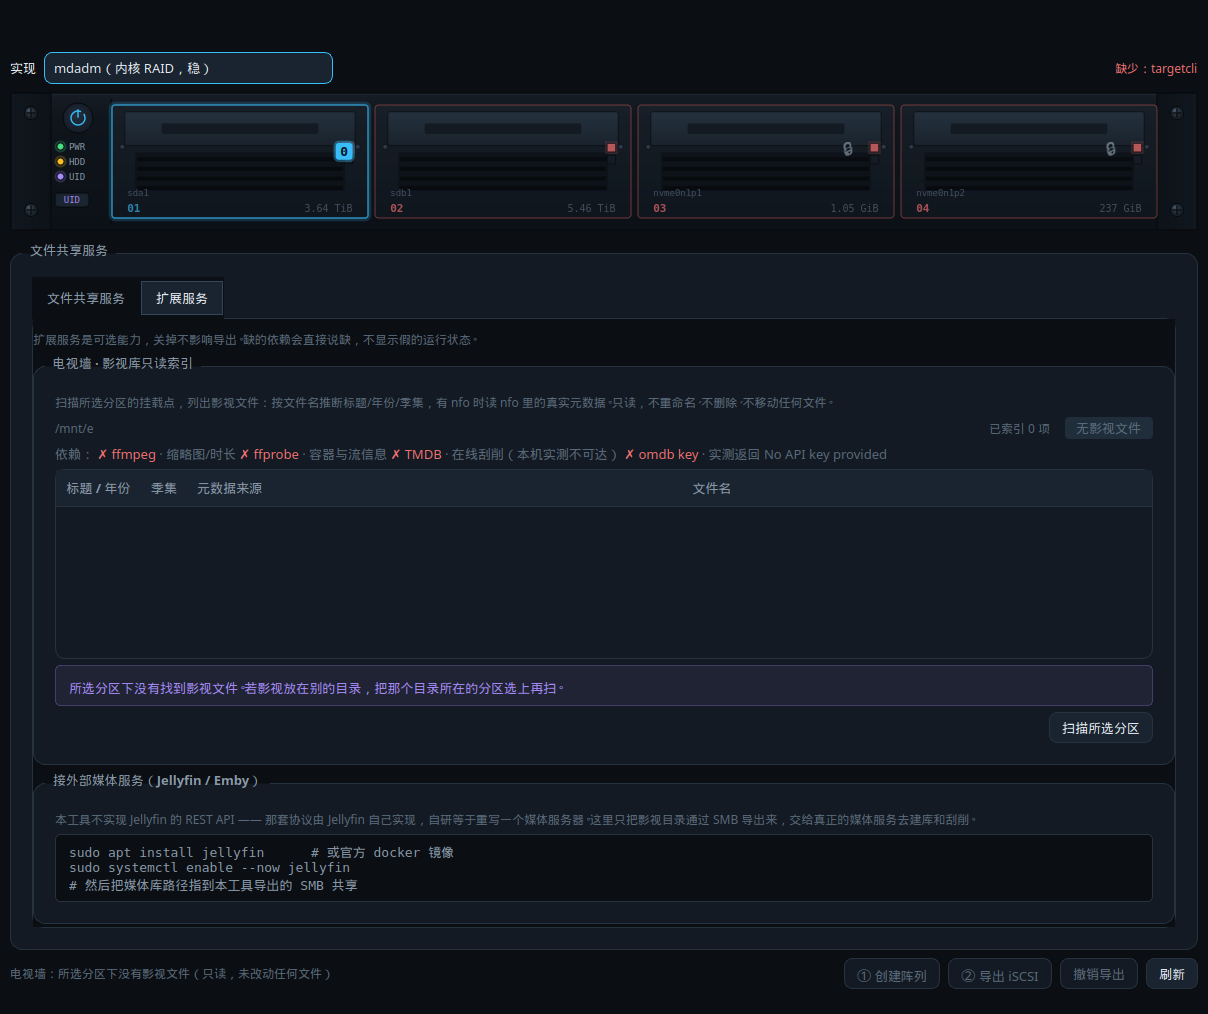
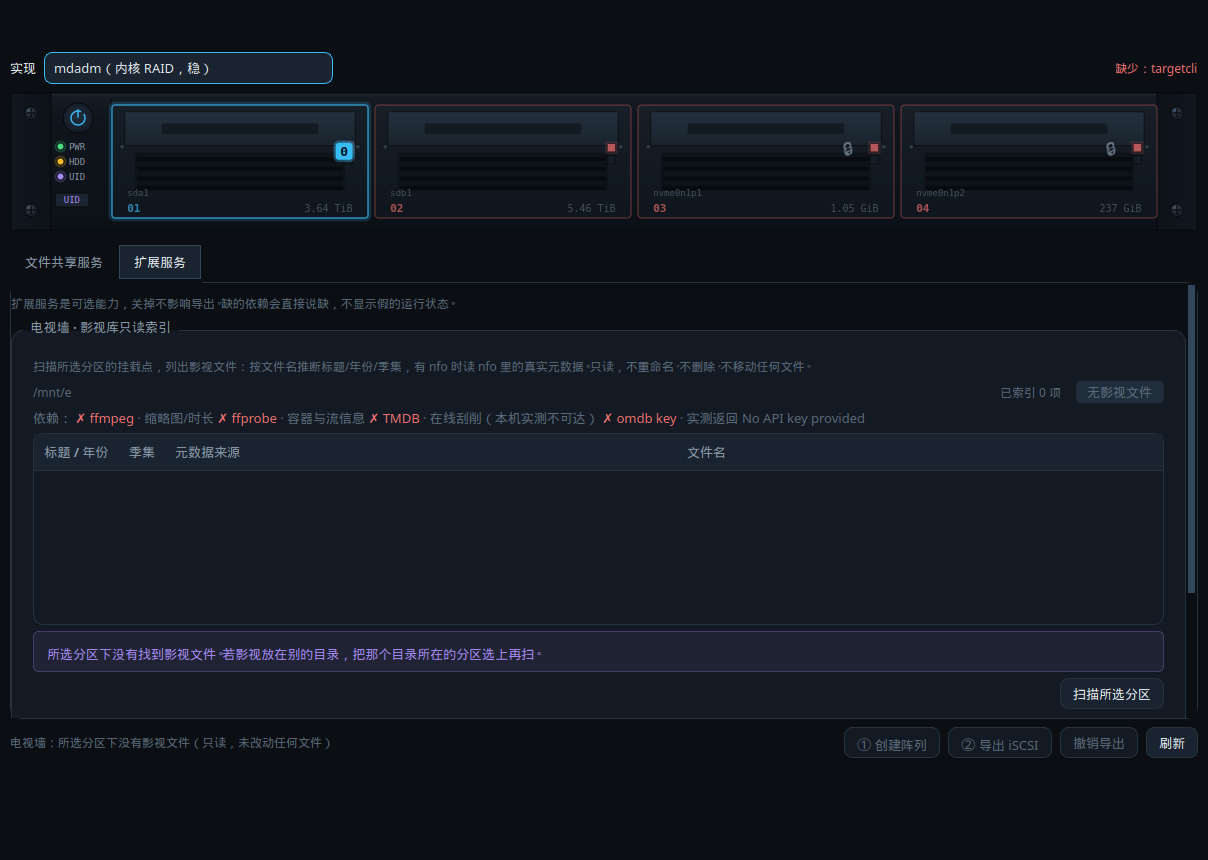
feat(nas): 去掉标签页外层的分组框，并收掉由此暴露的高度问题
按「标签页外面不要再套一个框」改。外层 QGroupBox 的标题和第一个标签
同名，同一个词在相邻两级各写一遍是噪声不是信息。

去掉框之后露出一段空白，查下来跟框无关，是两个真实的高度问题：

  1. m_modeHint 与两个单选钮同在一行，行内没有任何竖直约束，布局把
     富余高度全摊给它 —— 一行 17px 的提示实测被撑到 297px。
     m_iscsiBox / m_smbBox 同样只是显隐容器，却在吸收富余（实测 570
     而内容只要 221）。三个控件都补上 Fixed 策略，现在都停在自己的
     sizeHint 上。

  2. 标签页必须同高，这是 Qt 的固定行为。扩展页要 700px、导出页只要
     258px，差出来的就是导出页下面那段空白 —— 这个空白在加框之前就
     存在，只是被框的边线盖住了。给扩展页套滚动区，让它「窗口给多高
     用多高」，标签页高度不再被最高那页顶起来：sizeHint 从 746 降到
     478，页面不再被撑到 991。

中途我先试了 setSizePolicy(Fixed)，没用 —— maximumHeight 默认是
QWIDGETSIZE_MAX，光设策略挡不住布局拉伸。这个坑 nasboardwidget.cpp
里早就写着结论，我自己又踩了一遍。

又试过 clampTabsToContent() 把 maximumHeight 收到 sizeHint，撤掉了：
标签页取的是最高那页的需求，强行收口会把底部按钮挤出窗口，比空白严重
得多。实测按钮都在窗口内之后确认不需要收口，改成让扩展页自己变矮。

没有给导出页硬塞内容填空白 —— 放不出真实信息时，留白比编一块面板好。
需要的话可以补成员分区的容量/挂载点小结，那是真实数据。

diff --git a/naspage.cpp b/naspage.cpp
@@ -29,6 +29,8 @@
 #include <QRadioButton>
 #include <QStandardPaths>
 #include <QApplication>
+#include <QScrollArea>
+#include <QFrame>
 #include <QTabWidget>
 #include <QTableWidget>
 #include <QHeaderView>
@@ -94,17 +96,21 @@ NasPage::NasPage(QWidget *parent)
     connect(m_board, &NasBoardWidget::slotClicked, this, &NasPage::onSlotClicked);
     connect(m_board, &NasBoardWidget::slotRejected, this, &NasPage::onSlotRejected);
 
-    // ── 参数区 ──
-    auto *cfg = new QGroupBox("文件共享服务");
-    // 参数框按内容高度，不吸收页面多余空间。否则它会吃掉画板下方的
-    // 全部富余高度，把画板顶到中间，看起来就是机箱上方一大片空白。
-    cfg->setSizePolicy(QSizePolicy::Preferred, QSizePolicy::Fixed);
-    auto *cfgLay = new QVBoxLayout(cfg);
-
-    // ── 标签页：导出服务 / 扩展服务 ──
+    // ── 参数区：导出服务 / 扩展服务 两个标签页 ──
     // 刻意分成两页而不是堆在一起：扩展服务（影视索引）失败或还没装
     // 依赖时，不该连带让人以为导出也用不了。两页失败域隔离。
+    //
+    // 标签页自己就是分组，不再另套 QGroupBox：外面那层框的标题和第一个
+    // 标签同名，同一个词在相邻两级重复一次是噪声而不是信息。
     m_tabs = new QTabWidget();
+    // 按内容高度，不吸收页面多余空间。否则它会吃掉画板下方的全部富余
+    // 高度，把画板顶到中间，看起来就是机箱上方一大片空白。
+    //
+    // 光设 Fixed 策略不够：maximumHeight 默认是 QWIDGETSIZE_MAX，布局有
+    // 富余时照样把标签页拉高（实测拉到 651，内容只要 253），多出来的高度
+    // 会被摊给页内控件，一行提示文字能被撑到几百像素。画板那边踩过同一个
+    // 坑，结论一样 —— 得同时把 maximumHeight 收到 sizeHint。
+    m_tabs->setSizePolicy(QSizePolicy::Preferred, QSizePolicy::Fixed);
     m_svcTab = new QWidget();
     auto *outer = new QVBoxLayout(m_svcTab);
     outer->setContentsMargins(0, 8, 0, 0);
@@ -122,12 +128,19 @@ NasPage::NasPage(QWidget *parent)
     modeRow->addWidget(m_modeIscsi);
     modeRow->addWidget(m_modeSmb);
     m_modeHint = new QLabel();
+    // 这一行只有提示文字，不给约束的话布局会把富余竖直高度摊给它，
+    // 一行 17px 的提示实测被撑到 297px，在带边框的标签页里就是一片空白。
+    m_modeHint->setSizePolicy(QSizePolicy::Expanding, QSizePolicy::Fixed);
+    m_modeHint->setMaximumHeight(m_modeHint->sizeHint().height() + 6);
     m_modeHint->setProperty("role", "mute");
     modeRow->addWidget(m_modeHint, 1);
     outer->addLayout(modeRow);
 
     // iSCSI 那套行整体装进一个容器，好和 SMB 那套互斥显隐。
     m_iscsiBox = new QWidget();
+    // 只是给一组控件做显隐的容器，不该吸收页面富余高度；
+    // 不设 Fixed 的话它会被拉到内容高度的两倍以上。
+    m_iscsiBox->setSizePolicy(QSizePolicy::Preferred, QSizePolicy::Fixed);
     auto *form = new QFormLayout(m_iscsiBox);
     form->setContentsMargins(0, 0, 0, 0);
     m_volName = new QLineEdit();
@@ -168,6 +181,9 @@ NasPage::NasPage(QWidget *parent)
 
     // ── SMB 参数（默认隐藏，恰好 1 个分区时才显示）──
     m_smbBox = new QWidget();
+    // 只是给一组控件做显隐的容器，不该吸收页面富余高度；
+    // 不设 Fixed 的话它会被拉到内容高度的两倍以上。
+    m_smbBox->setSizePolicy(QSizePolicy::Preferred, QSizePolicy::Fixed);
     auto *sform = new QFormLayout(m_smbBox);
     sform->setContentsMargins(0, 0, 0, 0);
 
@@ -206,8 +222,12 @@ NasPage::NasPage(QWidget *parent)
 
     m_tabs->addTab(m_svcTab, "文件共享服务");
     m_tabs->addTab(buildExtensionsTab(), "扩展服务");
-    cfgLay->addWidget(m_tabs);
-    layout->addWidget(cfg);
+    // 收口高度：maximumHeight 默认是 QWIDGETSIZE_MAX，光设 Fixed 策略挡不住
+    // 布局拉伸（实测标签页被拉到 651 而内容只要 253，多出来的高度摊给页内
+    // 控件，一行提示文字被撑成几百像素）。画板那边踩过同一个坑。
+    //
+    // 不设高度上限：标签页取最宽那页的高度（扩展服务页比导出页高），
+    layout->addWidget(m_tabs);
 
     // ── 按钮行 ──
     auto *btnRow = new QHBoxLayout();
@@ -470,6 +490,7 @@ void NasPage::syncExportMode(int memberCount)
     }
     refreshSmbWarning();
     m_lastMemberCount = memberCount;
+
 }
 
 // SMB 的红字警告。刻意「不过度报警」：正常配置只说清授予了什么权限，
@@ -836,8 +857,11 @@ QWidget *NasPage::buildExtensionsTab()
     m_tvTable->verticalHeader()->setVisible(false);
     m_tvTable->setEditTriggers(QAbstractItemView::NoEditTriggers);
     m_tvTable->setSelectionBehavior(QAbstractItemView::SelectRows);
-    m_tvTable->setMaximumHeight(190);
-    tvv->addWidget(m_tvTable);
+    // 不设固定高度：给 stretch 让它吸收富余空间，这样扩展页的整体高度
+    // 会随窗口收缩，导出页那边同高的空白也就跟着变小。写死 190 会让
+    // 扩展页始终占 700px，标签页同高后导出页只剩一片空白。
+    m_tvTable->setMinimumHeight(120);
+    tvv->addWidget(m_tvTable, 1);
 
     m_tvNote = new QLabel();
     m_tvNote->setWordWrap(true);
@@ -880,7 +904,18 @@ QWidget *NasPage::buildExtensionsTab()
 
     v->addStretch(1);
     refreshTvDeps();
-    return w;
+    // 滚动包一层。不包的话扩展页内容多高就占多高（实测 700px），而标签页
+    // 必须同高，导出页（258px）下面就只剩一片空白。包了之后窗口给多高用
+    // 多高，超出才出滚动条 —— 标签页高度不再被最高那页顶起来。
+    //
+    // 不给导出页硬塞内容：没有真实信息可放时，留白比编一块面板好。
+    auto *scroll = new QScrollArea();
+    scroll->setWidgetResizable(true);
+    scroll->setFrameShape(QFrame::NoFrame);
+    scroll->setHorizontalScrollBarPolicy(Qt::ScrollBarAlwaysOff);
+    scroll->setWidget(w);
+    scroll->setSizePolicy(QSizePolicy::Expanding, QSizePolicy::Expanding);
+    return scroll;
 }
 
 // 依赖自检。写死成实测结论前先探测一遍，避免哪天装了还在喊缺。
